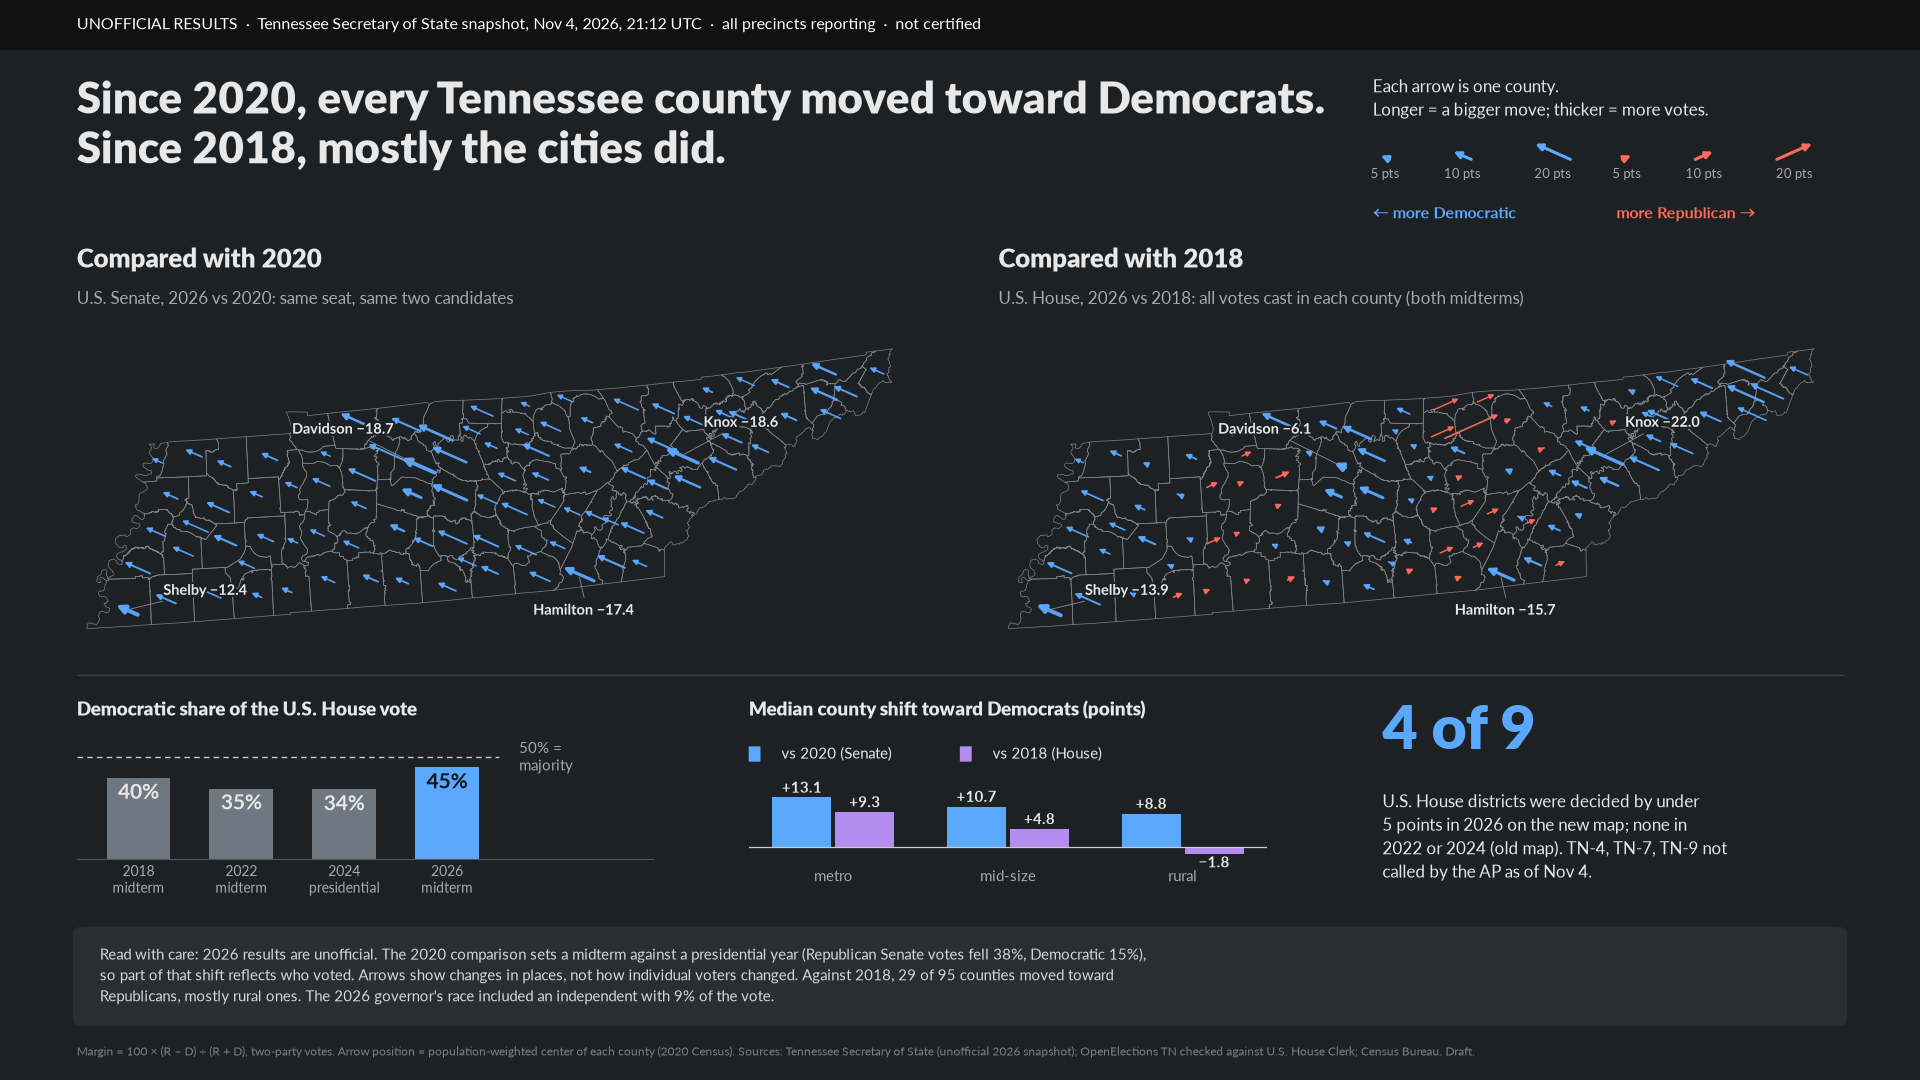
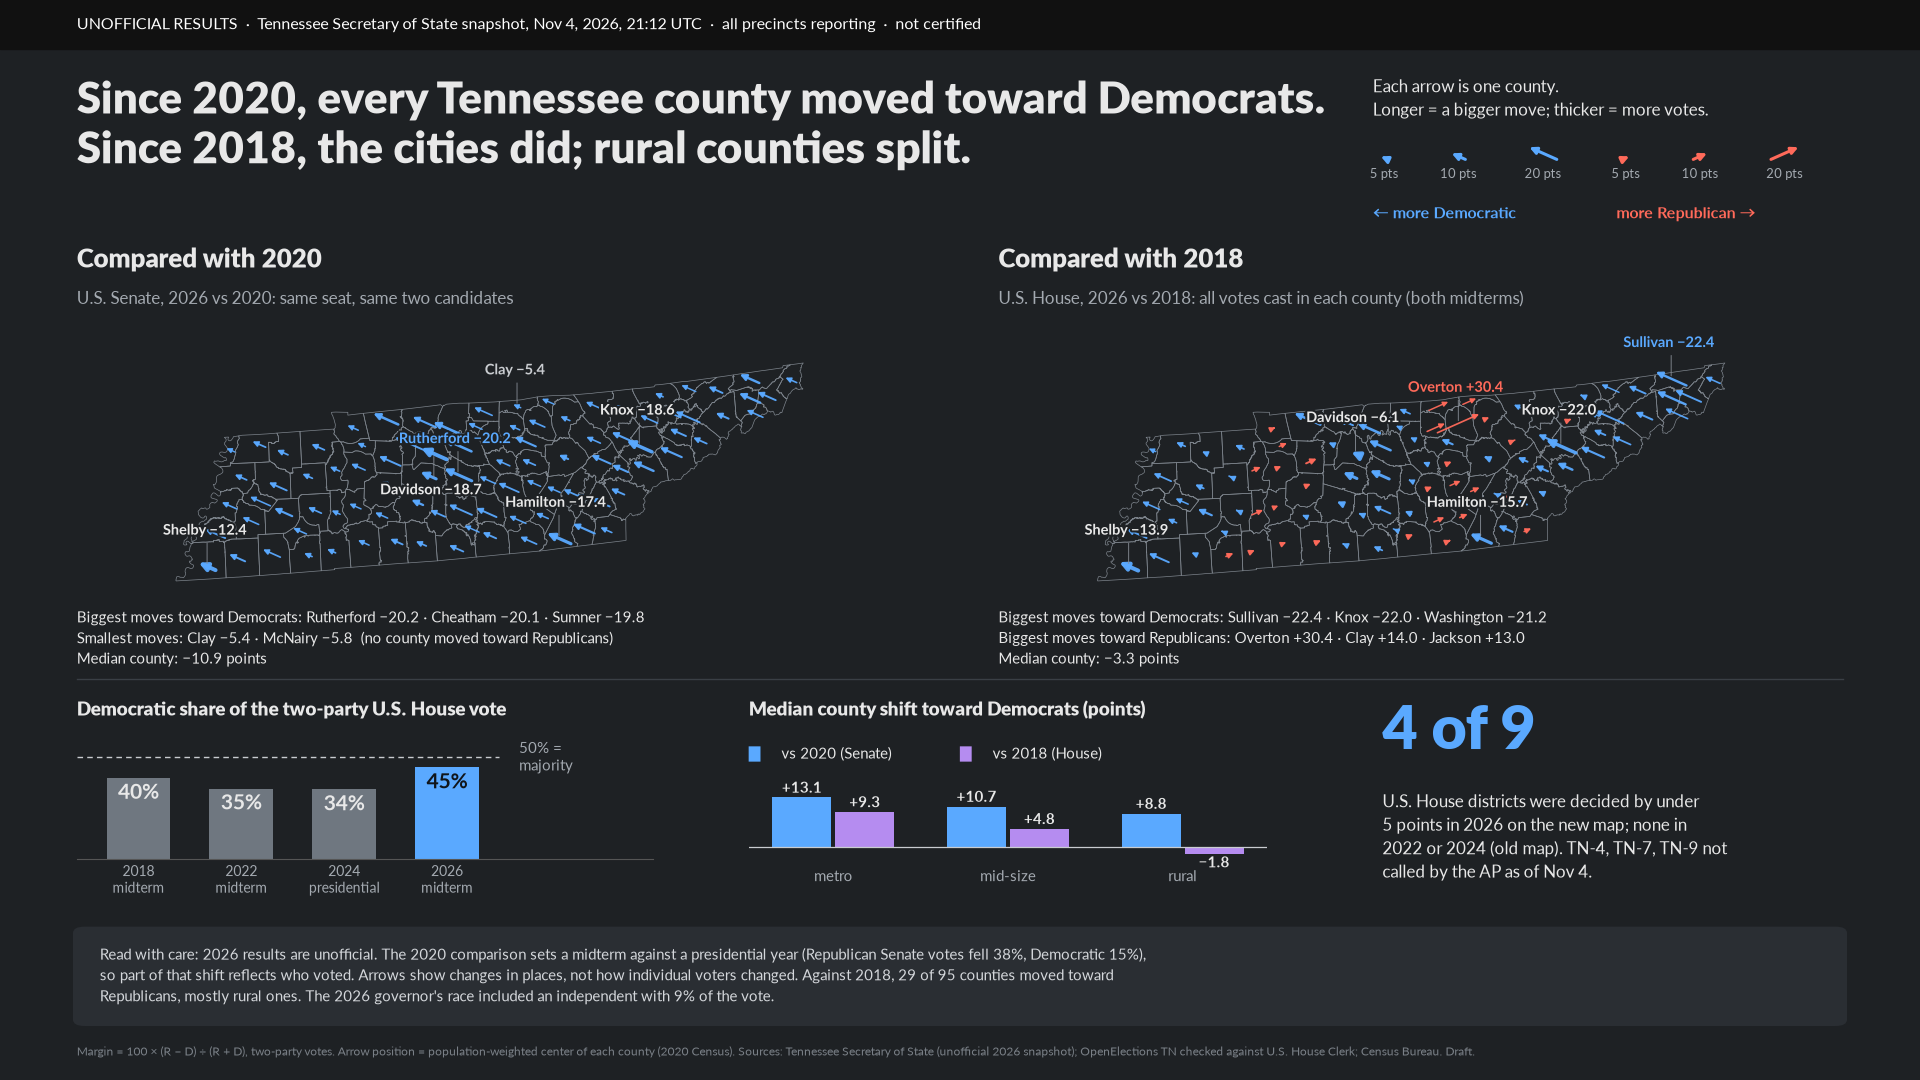
Add Tennessee 2026 maps page (draft, unofficial results) as of 2026-11-05 11:49 UTC

diff --git a/tn-2026/index.html b/tn-2026/index.html
@@ -6,6 +6,6 @@ main{max-width:1100px;margin:0 auto;padding:16px}h1{font-size:clamp(26px,4vw,40p
 figure{margin:28px 0}img{width:100%;height:auto;border-radius:6px;background:#fff}figcaption{padding:8px 2px;max-width:50em}.note{background:var(--card);padding:12px 14px;border-radius:8px;max-width:46em}a{color:inherit}</style></head><body>
 <header><b>UNOFFICIAL RESULTS</b> &middot; Tennessee Secretary of State snapshot, Nov 4, 2026, 21:12 UTC &middot; all precincts reporting &middot; not certified</header>
 <main><h1>Tennessee 2026 election maps (draft)</h1>
-<p>Maps from a work-in-progress analysis of Tennessee elections, 2000&ndash;2026. The size of the 2026 shift depends heavily on the comparison year: it is large against 2020, 2022 and 2024 and much smaller, and concentrated in the larger metro counties, against the 2018 midterm. Results shown are an unofficial election-night snapshot and will change as counties canvass and the state certifies. This page is a draft: nothing here is a final conclusion.</p>
+<p>Maps from a work-in-progress analysis of Tennessee elections, 2000&ndash;2026. The size of the 2026 shift depends heavily on the comparison year: it is large against 2020, 2022 and 2024 and much smaller against the 2018 midterm, where the cities moved toward Democrats and rural counties split. The one result that holds against every comparison year is that metro counties moved further toward Democrats than rural counties. Results shown are an unofficial election-night snapshot and will change as counties canvass and the state certifies. This page is a draft: nothing here is a final conclusion.</p>
 <div class="note">Margin = 100 &times; (R &minus; D) &divide; (R + D), two-party votes. Maps show where results moved, not how individual voters changed. Sources: Tennessee Secretary of State (unofficial 2026 snapshot); OpenElections TN checked against U.S. House Clerk; Census Bureau; HB 7003 (114th General Assembly).</div>
-<figure><a href="img/hero_arrows_16x9.png"><img src="img/hero_arrows_16x9.png" alt="Two maps of Tennessee counties, each county drawn as an arrow. Arrows point left where Democrats gained on Republicans and right where Republicans gained; longer arrows are bigger moves and thicker arrows are counties with more votes. The left map compares the 2026 U.S. Senate race with 2020 (same seat, same two candidates): every arrow points left, and the longest include Rutherford, Cheatham, Sumner, Wilson, Davidson, Knox and Hamilton counties. The right map compares 2026 U.S. House votes with 2018: most urban counties point left, while many rural counties are short red arrows pointing right. Below the maps: the Democratic share of the U.S. House vote was 40% in 2018, 35% in 2022, 34% in 2024 and 45% in 2026; median metro, mid-size and rural county shifts toward Democrats; and four of nine House districts decided by under 5 points in 2026." loading="lazy"></a><figcaption><b>Since 2020, every Tennessee county moved toward Democrats. Since 2018, mostly the cities did.</b><br>Left: U.S. Senate, 2026 vs 2020 (same seat, same candidates): 95 of 95 counties moved toward Democrats, median 10.9 points. Right: U.S. House, 2026 vs 2018 (both midterms): 29 of 95 counties moved toward Republicans, mostly rural; the median metro county moved 9.3 points toward Democrats and the median rural county 1.8 toward Republicans. From 2020 to 2026 Republican Senate votes fell 38% and Democratic votes 15%, so part of the 2020 comparison reflects who voted in a midterm versus a presidential year.<br><a href="img/hero_arrows_16x9.png">Open full size</a></figcaption></figure><figure><a href="img/fig10_arrow_map_vs2020.png"><img src="img/fig10_arrow_map_vs2020.png" alt="Large map of Tennessee with one arrow per county. Every arrow points left (toward Democrats). Among the longest arrows are those around Nashville (Rutherford, Cheatham, Sumner, Wilson, Davidson), Knoxville (Knox) and Chattanooga (Hamilton); Memphis (Shelby) is a thick arrow because it has the most votes." loading="lazy"></a><figcaption><b>The arrow map, large: 2026 vs 2020 (U.S. Senate)</b><br>Arrow length = change in the Republican-minus-Democratic margin; thickness = votes cast. Arrow position = population-weighted center of each county (2020 Census). Against the 2018 midterm the pattern differs; see the two-map version above.<br><a href="img/fig10_arrow_map_vs2020.png">Open full size</a></figcaption></figure><figure><a href="img/fig1_dark_bubble_swing.png"><img src="img/fig1_dark_bubble_swing.png" alt="Dark map of Tennessee with one circle per county, sized by 2026 Senate votes cast and colored from light blue (largest move toward Democrats) through purple (no change) to coral (toward Republicans). Every circle is blue or blue-violet; none moved toward Republicans compared with 2020." loading="lazy"></a><figcaption><b>The bubble map: change in the Republican margin by county, 2020 to 2026</b><br>Circle area key: 250,000, 50,000 and 10,000 votes. Compared with the 2018 midterm the pattern is different (see the arrow map).<br><a href="img/fig1_dark_bubble_swing.png">Open full size</a></figcaption></figure><figure><a href="img/fig6_districts_old_vs_new_map.png"><img src="img/fig6_districts_old_vs_new_map.png" alt="Two maps of Tennessee&#x27;s nine U.S. House districts colored by Republican margin: the 2024 map with 2024 official results, and the 2026 map (HB 7003) with unofficial 2026 results. In 2026, TN-4 is D+0.1, TN-9 R+1.1, TN-7 R+2.2 and TN-6 R+3.3." loading="lazy"></a><figcaption><b>Tennessee&#x27;s new congressional map: four of nine districts are within 5 points</b><br>Old and new districts cover different territory, so the two panels are not a like-for-like change. The AP had not called TN-4, TN-7 or TN-9 as of Nov 4 (per project owner).<br><a href="img/fig6_districts_old_vs_new_map.png">Open full size</a></figcaption></figure><figure><a href="img/hero_arrows_4x5.png"><img src="img/hero_arrows_4x5.png" alt="Portrait layout of the same two arrow maps and key numbers: every county moved toward Democrats compared with 2020; compared with 2018 mostly the larger metro counties did; the Democratic share of the U.S. House vote is 45% in 2026." loading="lazy"></a><figcaption><b>Portrait version (4:5) for social media</b><br>Same data and caveats as the wide version.<br><a href="img/hero_arrows_4x5.png">Open full size</a></figcaption></figure><p><small>Page generated 2026-11-05 02:43 UTC. Separate from the 2026 margin-maps page at the site root.</small></p></main></body></html>
+<figure><a href="img/hero_arrows_16x9.png"><img src="img/hero_arrows_16x9.png" alt="Two maps of Tennessee counties, each county drawn as an arrow. Arrows point left where Democrats gained on Republicans and right where Republicans gained; longer arrows are bigger moves and thicker arrows are counties with more votes. Left map: the 2026 U.S. Senate race compared with 2020 (same seat, same two candidates); every arrow points left. Right map: 2026 U.S. House votes compared with 2018; urban counties point left, while many rural counties are short red arrows pointing right. Under each map: the three biggest moves toward each party and the median county. Below: the Democratic share of the two-party U.S. House vote (40% in 2018, 35% in 2022, 34% in 2024, 45% in 2026), median county shifts by county type, and four of nine House districts decided by under 5 points in 2026." loading="lazy"></a><figcaption><b>Since 2020, every Tennessee county moved toward Democrats. Since 2018, the cities did; rural counties split.</b><br>Left: U.S. Senate, 2026 vs 2020: 95 of 95 counties moved toward Democrats; median 10.9 points; biggest moves Rutherford, Cheatham and Sumner. Right: U.S. House, 2026 vs 2018: 66 counties moved toward Democrats and 29 toward Republicans (biggest: Overton, a county of about 6,100 two-party votes); median 3.3 points toward Democrats; the median metro county moved 9.3 points toward Democrats; rural counties split, 14 toward Democrats and 17 toward Republicans. From 2020 to 2026 Republican Senate votes fell 38% and Democratic votes 15%, so part of the 2020 comparison reflects who voted in a midterm versus a presidential year.<br><a href="img/hero_arrows_16x9.png">Open full size</a></figcaption></figure><figure><a href="img/fig12_baseline_robustness.png"><img src="img/fig12_baseline_robustness.png" alt="Dot chart with one row per comparison year (2006, 2010, 2014, 2018, 2020, 2022 and 2024). Each row shows the median change in the Republican-minus-Democratic U.S. House margin for metro counties (violet dot) and rural counties (amber dot). The violet dot is left of the amber dot in every row. A table on the right gives the metro-minus-rural gap with a 95 percent bootstrap interval and the number of counties that moved toward Democrats." loading="lazy"></a><figcaption><b>Metro counties moved further toward Democrats than rural counties against every comparison year</b><br>The gap is negative in all seven rows and its 95% interval excludes zero each time (from -3.3 points against 2022 to -41.3 against 2006). Whether rural counties moved toward Democrats or Republicans depends on the year. Intervals treat counties as independent, which neighbors are not, so they are likely too narrow.<br><a href="img/fig12_baseline_robustness.png">Open full size</a></figcaption></figure><figure><a href="img/hero_arrows_4x5_vs2020.png"><img src="img/hero_arrows_4x5_vs2020.png" alt="Large arrow map of Tennessee, U.S. Senate 2026 compared with 2020. Every arrow points left (toward Democrats). Labeled: Shelby, Davidson, Knox and Hamilton (the biggest counties) and Rutherford (biggest move) and Clay (smallest move)." loading="lazy"></a><figcaption><b>Portrait card (4:5): 2026 vs 2020, every county moved toward Democrats</b><br>Median county shift: 10.9 points toward Democrats. See the caution about midterm versus presidential-year electorates.<br><a href="img/hero_arrows_4x5_vs2020.png">Open full size</a></figcaption></figure><figure><a href="img/hero_arrows_4x5_vs2018.png"><img src="img/hero_arrows_4x5_vs2018.png" alt="Large arrow map of Tennessee, U.S. House 2026 compared with 2018. Urban counties have blue arrows pointing left; many rural counties have short red arrows pointing right. Labeled: Sullivan and Knox (large moves toward Democrats), Overton (largest move toward Republicans) and the four biggest counties." loading="lazy"></a><figcaption><b>Portrait card (4:5): 2026 vs 2018, the cities moved toward Democrats; rural counties split</b><br>29 of 95 counties moved toward Republicans; median county 3.3 points toward Democrats. House district lines, candidates and uncontested seats differ between 2018 and 2026.<br><a href="img/hero_arrows_4x5_vs2018.png">Open full size</a></figcaption></figure><figure><a href="img/fig6_districts_old_vs_new_map.png"><img src="img/fig6_districts_old_vs_new_map.png" alt="Two maps of Tennessee&#x27;s nine U.S. House districts colored by Republican margin from light blue (Democratic) through purple (even) to coral (Republican): the 2024 map with 2024 official results, and the 2026 map (HB 7003) with unofficial 2026 results. In 2026, TN-4 is D+0.1, TN-9 R+1.1, TN-7 R+2.2 and TN-6 R+3.3." loading="lazy"></a><figcaption><b>Tennessee&#x27;s new congressional map: four of nine districts are within 5 points</b><br>Old and new districts cover different territory, so the two maps are not a like-for-like change. The AP had not called TN-4, TN-7 or TN-9 as of Nov 4 (per project owner).<br><a href="img/fig6_districts_old_vs_new_map.png">Open full size</a></figcaption></figure><figure><a href="img/fig11_repeat_candidates.png"><img src="img/fig11_repeat_candidates.png" alt="Fourteen small line charts, one per person who ran in more than one general election from 2018 to 2026. Each line is that person&#x27;s share of the two-party vote; a gray dashed line shows their party&#x27;s share of the statewide U.S. House vote. Dashed segments mark changes of district lines or office." loading="lazy"></a><figcaption><b>People who ran more than once: incumbents lost about as much ground as their party, except where district lines changed the most</b><br>Where district lines held (TN-1, TN-2, TN-3) incumbents&#x27; shares fell 10.5 to 10.9 points, almost exactly the 10.8-point fall in the Republican statewide House share. In TN-4 and TN-8, where 67% and 61% of residents carried over, DesJarlais and Kustoff fell about 12 and 10 points farther than the state (TN-4 was a rematch with the same Democrat). That is four cases, too few to generalize.<br><a href="img/fig11_repeat_candidates.png">Open full size</a></figcaption></figure><figure><a href="img/fig10_arrow_map_vs2020.png"><img src="img/fig10_arrow_map_vs2020.png" alt="Large map of Tennessee with one arrow per county. Every arrow points left (toward Democrats). Among the longest arrows are those around Nashville (Rutherford, Cheatham, Sumner, Wilson, Davidson), Knoxville (Knox) and Chattanooga (Hamilton)." loading="lazy"></a><figcaption><b>The arrow map, large: 2026 vs 2020 (U.S. Senate)</b><br>Arrow length = change in the Republican-minus-Democratic margin; thickness = votes cast. Position = population-weighted center of each county (2020 Census).<br><a href="img/fig10_arrow_map_vs2020.png">Open full size</a></figcaption></figure><figure><a href="img/fig1_dark_bubble_swing.png"><img src="img/fig1_dark_bubble_swing.png" alt="Dark map of Tennessee with one circle per county, sized by 2026 Senate votes cast and colored from light blue (largest move toward Democrats) through purple (no change) to coral (toward Republicans). Every circle is blue or blue-violet." loading="lazy"></a><figcaption><b>The bubble map: change in the Republican margin by county, 2020 to 2026</b><br>Circle area key: 250,000, 50,000 and 10,000 votes. Compared with the 2018 midterm the pattern is different (see the arrow maps).<br><a href="img/fig1_dark_bubble_swing.png">Open full size</a></figcaption></figure><p><small>Page generated 2026-11-05 11:49 UTC. Separate from the 2026 margin-maps page at the site root.</small></p></main></body></html>
